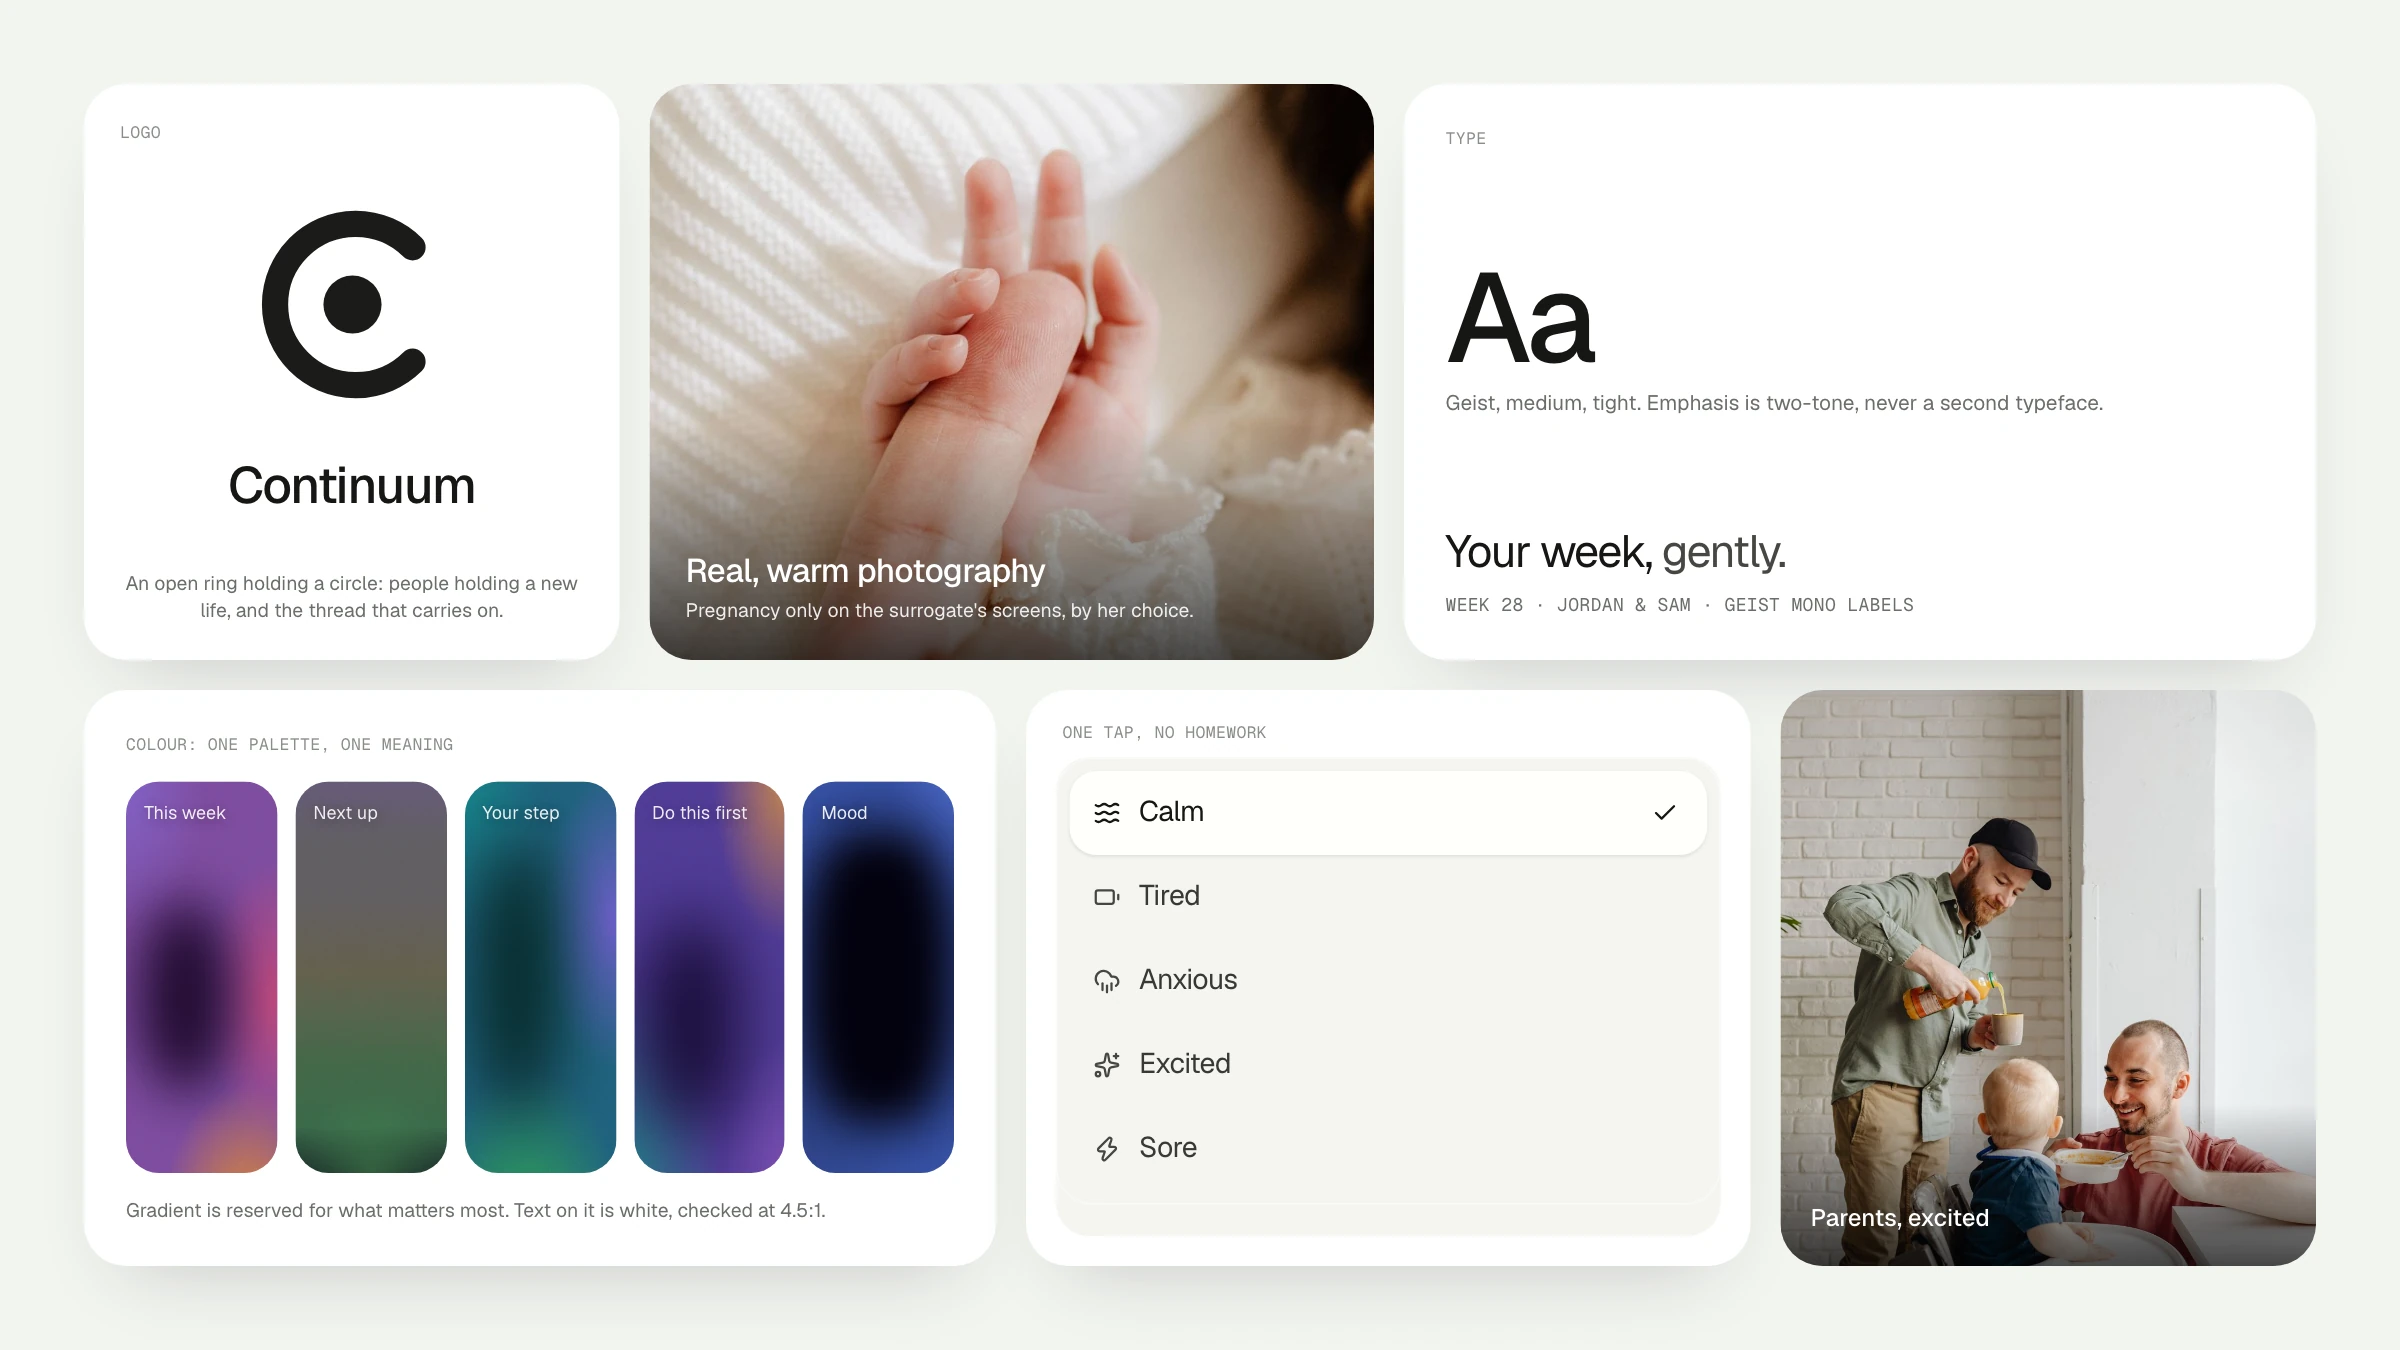
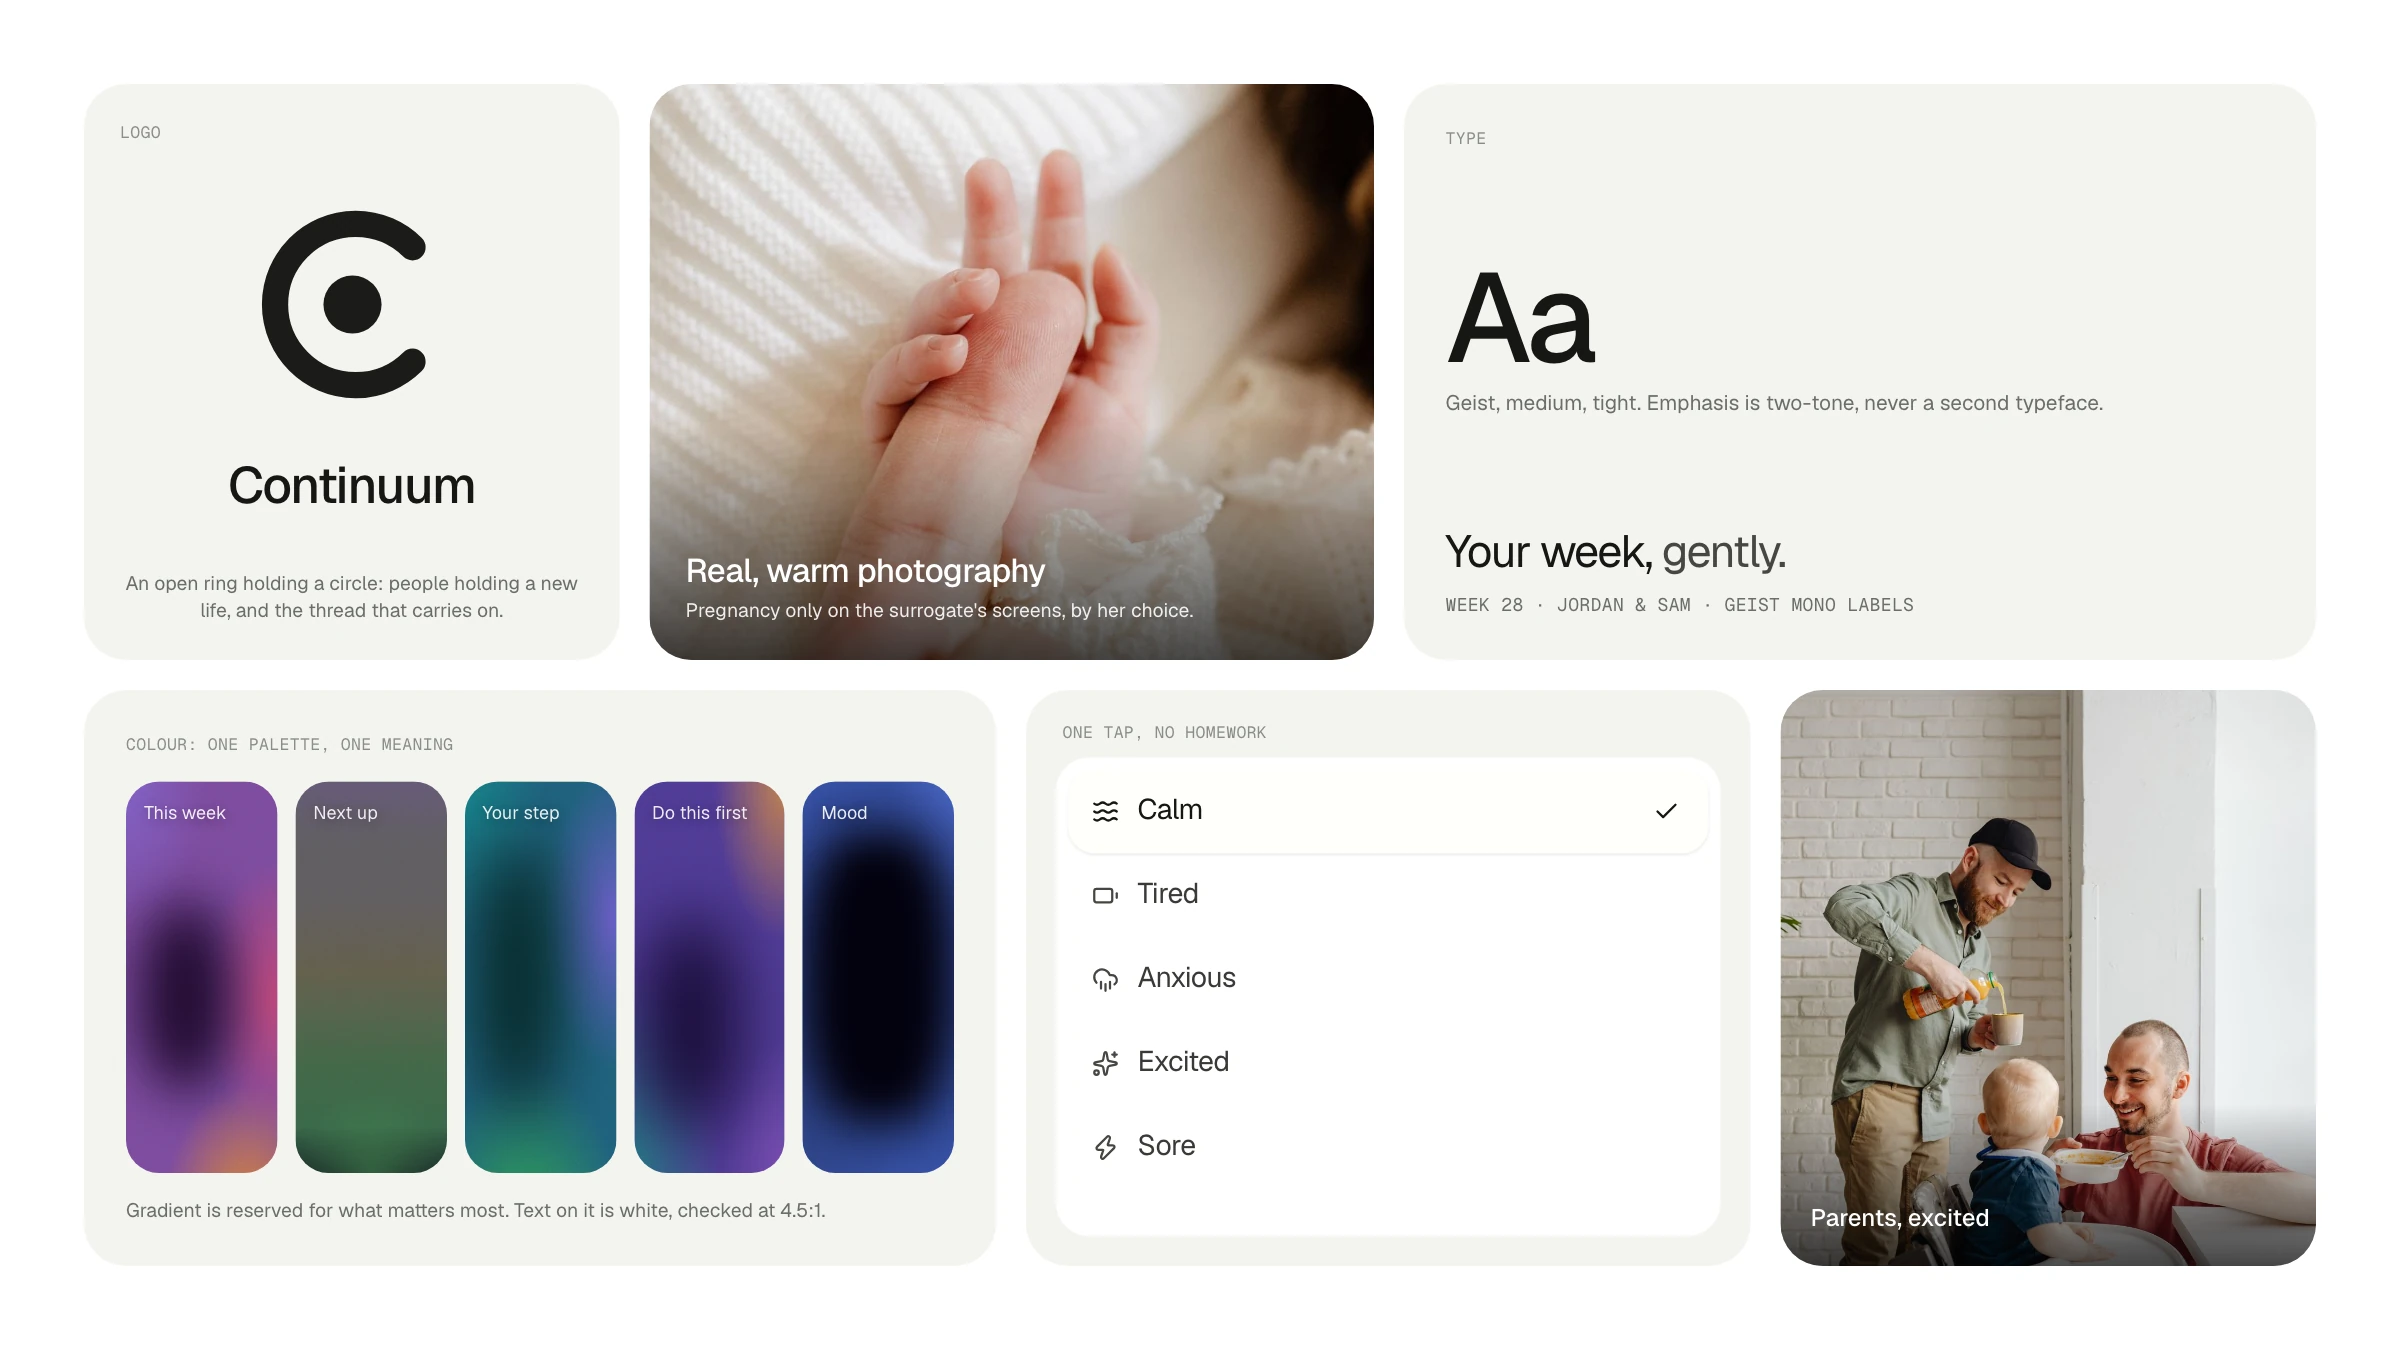
Continuum case study: Umi-style hero, white frameless pictures, no redesign framing
- Hero: a phone in the centre with real components around it, on white
- Every other picture on plain white, frameless screens, side by side, no angles; sits on the page without frames
- Design system: two bento pictures on white (overview and components)
- Removed the Then and Now section and the redesign wording; prototype caveat moved to a short note under the hero

diff --git a/app/continuum/page.tsx b/app/continuum/page.tsx
@@ -24,7 +24,7 @@ import {
   decisionsSection,
   stakeholdersSection,
   designSystemSection,
-  thenNowSection,
+  prototypeNote,
   nextStepsSection,
   nextProject,
 } from "@/app/continuum/data";
@@ -38,7 +38,6 @@ const sections = [
   { id: "decisions", title: "Design Decisions" },
   { id: "stakeholders", title: "Stakeholders" },
   { id: "design-system", title: "Design System" },
-  { id: "then-now", title: "Then & Now" },
   { id: "next-steps", title: "What's Next" },
 ];
 
@@ -61,7 +60,6 @@ const minutesToRead = readingMinutes(
   decisionsSection,
   stakeholdersSection,
   designSystemSection,
-  thenNowSection,
   nextStepsSection,
 );
 
@@ -102,20 +100,28 @@ export default function ContinuumPage() {
               {continuumHero.subtitle}
             </p>
 
-            {/* The picture comes first, so the page opens on the work: two roles, one plan, on a dual-screen concept. */}
-            <div className="mt-10 mb-2 overflow-hidden rounded-2xl border border-black/[0.06] bg-neutral-100">
+            {/* The picture comes first, so the page opens on the work: one phone, with the pieces of the system around it. */}
+            <div className="mt-10 mb-2">
               <Image
-                src="/images/continuum/v2/hero-duo.webp"
-                alt="Continuum on a dual-screen concept device: the surrogate's Today page on the left screen and the intended parents' home on the right, both with their gradient focal cards"
+                src="/images/continuum/v2/hero-umi.webp"
+                alt="Continuum on a phone, surrounded by the pieces of the system: the daily check-in, symptom chips, the coordinator's 'Do this first' card, gradient widgets, a certified-coordinator tag, privacy switches, and the shared timeline"
                 width={2400}
                 height={1350}
                 priority
-                className="h-auto w-full"
+                className="h-auto w-full mix-blend-multiply"
                 sizes="(min-width: 1024px) 1024px, 100vw"
               />
             </div>
-            <p className="mt-3 text-xs text-neutral-400">
-              Dual-screen concept mockup. The same system runs on phone, dual-screen, and desktop.
+            <p className="mt-3 max-w-2xl text-xs leading-relaxed text-neutral-400">
+              {prototypeNote.text}
+              {filled(prototypeNote.url) && (
+                <>
+                  {" "}
+                  <a href={prototypeNote.url} target="_blank" rel="noopener noreferrer" className="font-medium text-neutral-600 underline underline-offset-4">
+                    {prototypeNote.label} ↗
+                  </a>
+                </>
+              )}
             </p>
 
             <CaseStudyTldr tldr={tldr} />
@@ -175,13 +181,13 @@ export default function ContinuumPage() {
             {problemSection.heading}
           </h2>
 
-          <div className="mt-8 overflow-hidden rounded-2xl border border-black/[0.06] bg-neutral-100 shadow-soft">
+          <div className="mt-8">
             <Image
               src={problemSection.image}
               alt={problemSection.imageAlt}
               width={problemSection.imageWidth}
               height={problemSection.imageHeight}
-              className="h-auto w-full"
+              className="h-auto w-full mix-blend-multiply"
               sizes="(min-width: 1024px) 1024px, 100vw"
             />
           </div>
@@ -222,13 +228,13 @@ export default function ContinuumPage() {
           <div className="mt-10 space-y-8">
             {decisionsSection.decisions.map((decision) => (
               <div key={decision.slug} className="flex flex-col gap-3">
-                <div className="overflow-hidden rounded-2xl border border-black/[0.06] bg-neutral-100 shadow-soft">
+                <div>
                   <Image
                     src={decision.image}
                     alt={decision.imageAlt}
                     width={2400}
                     height={1600}
-                    className="h-auto w-full"
+                    className="h-auto w-full mix-blend-multiply"
                     sizes="(min-width: 1024px) 1024px, 100vw"
                   />
                 </div>
@@ -270,13 +276,13 @@ export default function ContinuumPage() {
           <div className="mt-12 space-y-16 sm:space-y-20">
             {stakeholdersSection.stakeholders.map((s, i) => (
               <div key={s.slug}>
-                <div className="overflow-hidden rounded-2xl border border-black/[0.06] bg-neutral-100 shadow-soft">
+                <div>
                   <Image
                     src={s.image}
                     alt={s.imageAlt}
                     width={2400}
                     height={1166}
-                    className="h-auto w-full"
+                    className="h-auto w-full mix-blend-multiply"
                     sizes="(min-width: 1024px) 1024px, 100vw"
                   />
                 </div>
@@ -319,72 +325,20 @@ export default function ContinuumPage() {
             ))}
           </ul>
 
-          <p className="mt-6 max-w-2xl text-sm leading-relaxed text-neutral-500">{designSystemSection.note}</p>
-
           <div className="mt-10 space-y-6">
             {designSystemSection.images.map((img) => (
-              <div key={img.src} className="overflow-hidden rounded-3xl">
+              <div key={img.src}>
                 <Image
                   src={img.src}
                   alt={img.alt}
                   width={designSystemSection.imageWidth}
                   height={designSystemSection.imageHeight}
-                  className="h-auto w-full"
+                  className="h-auto w-full mix-blend-multiply"
                   sizes="(min-width: 1024px) 1024px, 100vw"
                 />
               </div>
             ))}
           </div>
-        </section>
-
-        {/* Then and now: a short note on what changed since the course */}
-        <section id="then-now" className="max-w-4xl scroll-mt-28 py-16 sm:py-20">
-          <p className="inline-flex items-center gap-2 rounded-full bg-neutral-100 px-3 py-1 text-xs font-medium text-neutral-600">
-            <span aria-hidden className="size-1.5 rounded-full bg-accent-deep" />
-            {thenNowSection.kicker}
-          </p>
-          <h2 className="font-display mt-4 text-3xl font-semibold text-neutral-950 sm:text-4xl">
-            {thenNowSection.heading}
-          </h2>
-          <p className="mt-4 max-w-2xl text-lg leading-relaxed text-neutral-500">{thenNowSection.intro}</p>
-
-          <div className="mt-10 overflow-hidden rounded-2xl border border-black/[0.06] bg-neutral-100 shadow-soft">
-            <Image
-              src={thenNowSection.image}
-              alt={thenNowSection.imageAlt}
-              width={2400}
-              height={1350}
-              className="h-auto w-full"
-              sizes="(min-width: 1024px) 1024px, 100vw"
-            />
-          </div>
-
-          <ul className="mt-8 space-y-3">
-            {thenNowSection.changes.map((c) => (
-              <li key={c.title} className="text-base leading-relaxed text-neutral-700">
-                <span className="font-semibold text-neutral-900">{c.title}</span> {c.body}
-              </li>
-            ))}
-          </ul>
-
-          <ul className="mt-6 flex flex-wrap gap-2">
-            {thenNowSection.caveats.map((c) => (
-              <li key={c} className="rounded-full bg-neutral-100 px-3 py-1.5 text-xs leading-snug text-neutral-600">
-                {c}
-              </li>
-            ))}
-          </ul>
-
-          {filled(thenNowSection.prototypeUrl) && (
-            <a
-              href={thenNowSection.prototypeUrl}
-              target="_blank"
-              rel="noopener noreferrer"
-              className="mt-6 inline-block text-sm font-medium text-neutral-900 underline underline-offset-4 transition-colors hover:text-neutral-600"
-            >
-              {thenNowSection.prototypeLabel} ↗
-            </a>
-          )}
         </section>
 
         {/* What I'd Do Next */}

diff --git a/app/continuum/data.ts b/app/continuum/data.ts
@@ -9,9 +9,9 @@ export const continuumHero = {
     label: "The Gist:",
     text: "Most surrogacy tools manage paperwork. Continuum manages the human experience.",
   },
-  date: "Course research Jan 2025 · Redesigned Oct to Nov 2026",
+  date: "Jan 2025 to Nov 2026 · Course research, then independent design",
   myRole:
-    "I researched the problem with a class team of 7, focusing on how hospital systems handle surrogacy. I then designed Continuum on my own and, in 2026, rebuilt it as a responsive, clickable prototype with a design system. I translated highly sensitive, multi-stakeholder emotional anxieties into clear, quiet UI patterns that protect trust.",
+    "I researched the problem with a class team of 7, focusing on how hospital systems handle surrogacy. I then designed Continuum on my own, as a responsive, clickable prototype with a design system. I translated highly sensitive, multi-stakeholder emotional anxieties into clear, quiet UI patterns that protect trust.",
   // Items with a null value are hidden until filled.
   meta: [
     { label: "COURSE", value: "MGT 120: Managing and Using Information Technology" },
@@ -49,11 +49,11 @@ export const highlightsSection = {
   callout: "Less chaos, more continuity.",
 };
 
-// Two phases of work: team research during the 10-week course, solo design
-// after it, and a redesign in autumn 2026.
+// Three phases of work: team research during the 10-week course, solo design
+// after it, and a responsive prototype with a design system in autumn 2026.
 export const timelineSection = {
   heading: "Timeline",
-  intro: "3 phases: course research and design in 2025, then a redesign in autumn 2026.",
+  intro: "3 phases: course research, solo design, and a responsive prototype with a design system.",
   items: [
     {
       slug: "timeline-research",
@@ -68,10 +68,10 @@ export const timelineSection = {
       body: "Progressive disclosure, timeline-first communication, a design system draft, and frictionless check-ins.",
     },
     {
-      slug: "timeline-redesign",
+      slug: "timeline-prototype",
       date: "Oct to Nov 2026",
-      title: "Redesign and clickable prototype",
-      body: "Rebuilt as a responsive prototype: one thing to do first for every role, a shared timeline, daily symptom logging, and a coordinator workspace.",
+      title: "Responsive prototype and design system",
+      body: "A clickable prototype across phone, dual-screen, and desktop: one thing to do first for every role, a shared timeline, daily symptom logging, and a coordinator workspace.",
     },
   ],
 };
@@ -229,7 +229,6 @@ export const designSystemSection = {
       body: "for larger text, reduced motion and transparency, and higher contrast.",
     },
   ],
-  note: "The course version used a warm green palette. I replaced it with this neutral base so real photography and the key action carry the warmth.",
   images: [
     {
       src: "/images/continuum/v2/design-system-bento.webp",
@@ -244,32 +243,12 @@ export const designSystemSection = {
   imageHeight: 1350,
 };
 
-// A short "then and now". The new pictures are used through the case itself,
-// so this only says what changed. Nothing here is a tested result.
-export const thenNowSection = {
-  heading: "Then and Now",
-  kicker: "Course concept to prototype",
-  intro:
-    "The course version was a dashboard-first concept in warm green. The redesign makes the first action the point, makes every screen responsive, and adds the tools coordinators actually need.",
-  image: "/images/continuum/v2/then-now.webp",
-  imageAlt:
-    "Left, the course version: a green welcome screen and a dashboard-first coordinator view. Right, the 2026 redesign: the neutral coordinator case view on desktop and phone",
-  changes: [
-    { title: "Dashboard-first became action-first.", body: "Each role opens on one thing to do." },
-    { title: "One layout became responsive.", body: "Phone, dual-screen, and desktop share one system." },
-    {
-      title: "Concept became working tools.",
-      body: "A board with nudges, a calendar, messages, a symptom log, and a way to find a certified coordinator.",
-    },
-  ],
-  caveats: [
-    "A clickable prototype with fictional people, agencies, and data.",
-    "Not yet tested with real users, so no outcomes are claimed.",
-    "The clinical content (symptom list, call-now guidance, hard-news script) is an unreviewed draft.",
-  ],
+// Shown once, under the hero. Nothing in this case study is a tested result.
+export const prototypeNote = {
+  text: "A clickable prototype with fictional people, agencies, and data. Not yet tested with users, and the clinical content (symptom list, call-now guidance) is an unreviewed draft.",
   // Optional. Hidden until you deploy the prototype and add the link.
-  prototypeUrl: null as string | null,
-  prototypeLabel: "Try the prototype",
+  url: null as string | null,
+  label: "Try the prototype",
 };
 
 export const nextStepsSection = {
